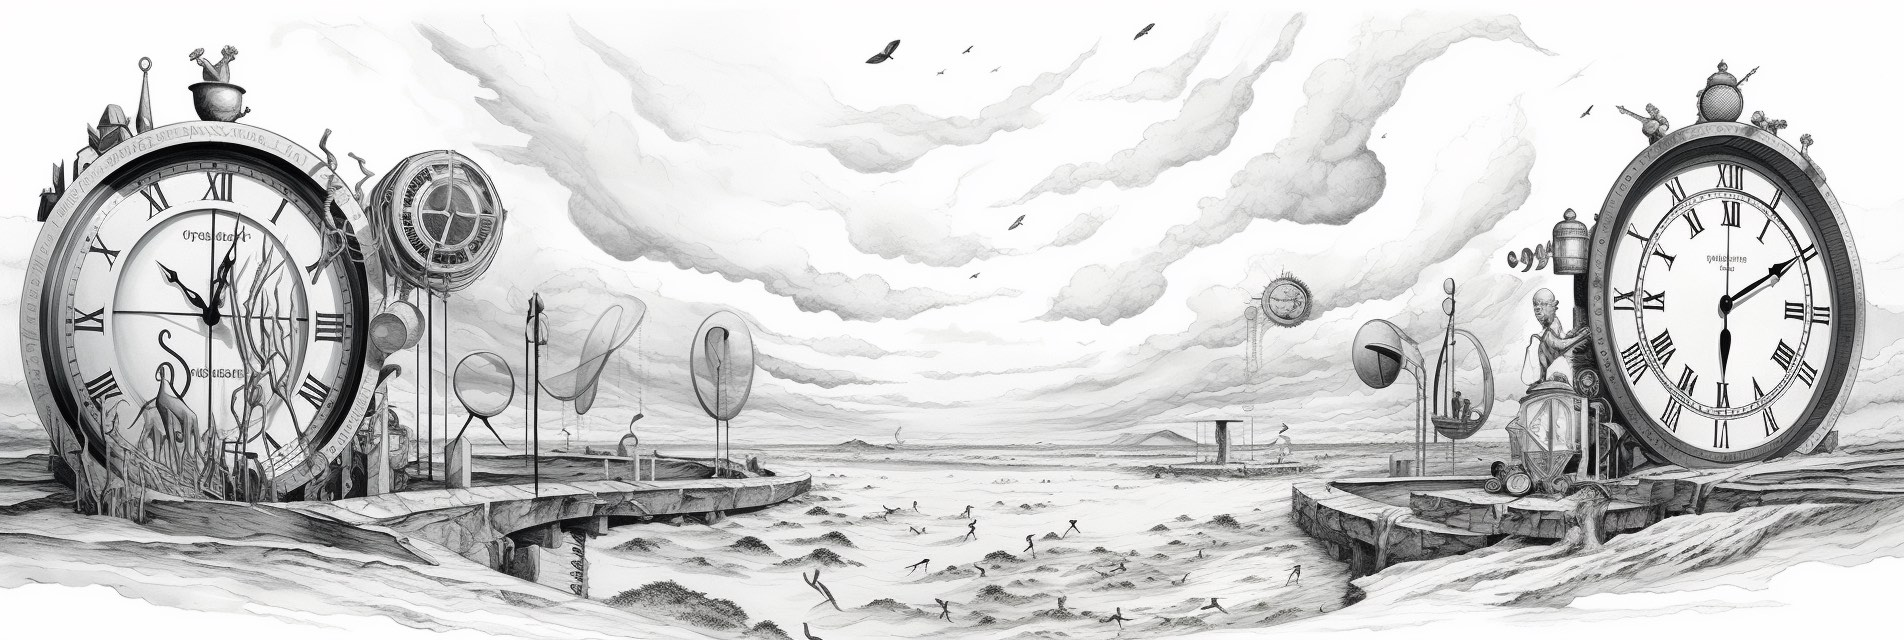
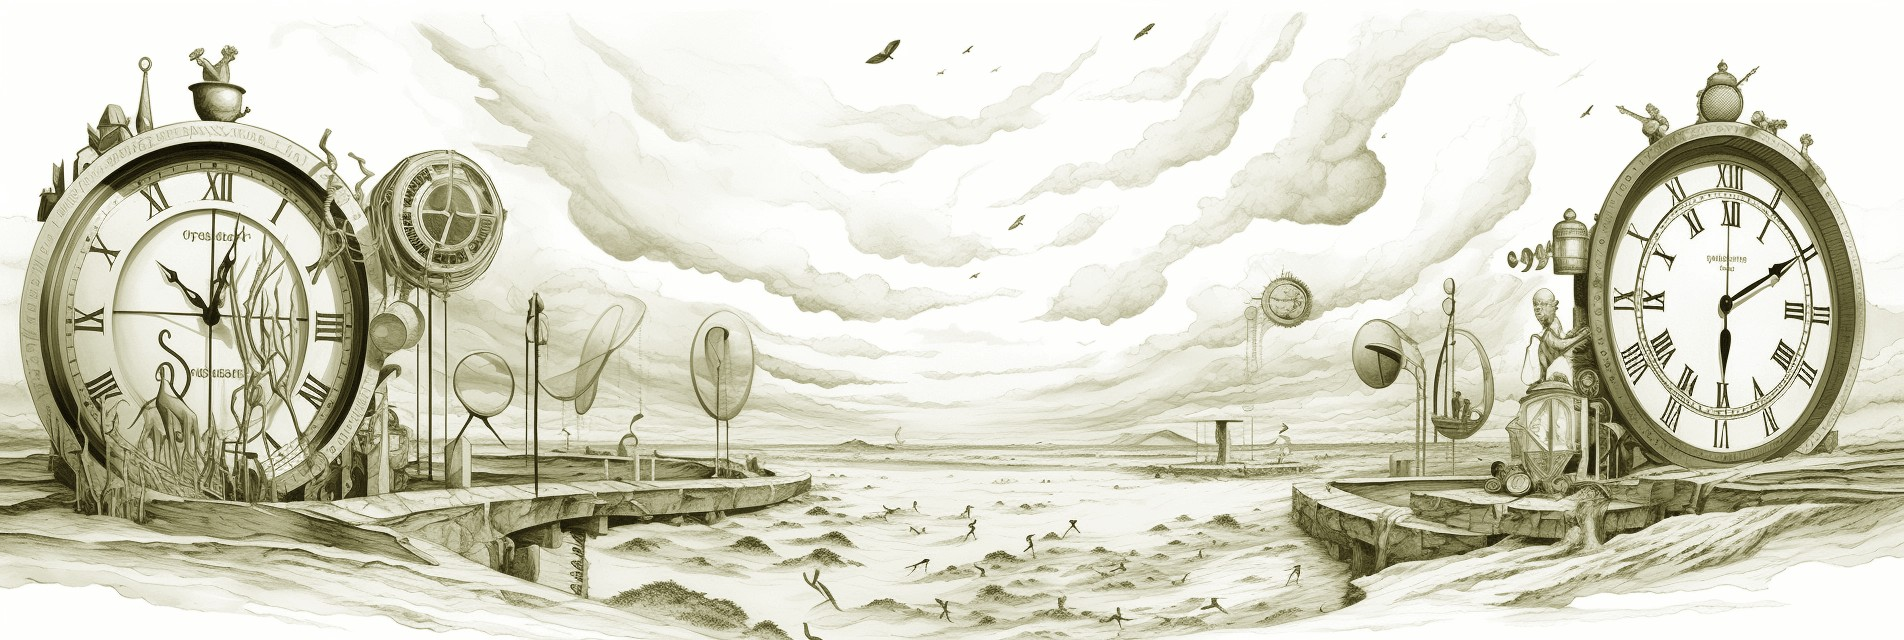
Tighten up colors, hero

diff --git a/style.css b/style.css
@@ -7,14 +7,14 @@
 }
 body {
   font: normal 16pt/21pt Gabarito, sans-serif;
-  background: url('hero.jpg') #110E11;
+  background: url('hero.jpg') #1F1D12;
   background-size: 100vw;
   background-repeat: no-repeat;
   background-attachment: fixed;
 }
 
 article {
-  color: #242521;
+  color: #1F1D12;
 }
 
 h1, div.content {
@@ -59,18 +59,18 @@ section:first-of-type h2 {
   margin-top: 0;
 }
 section:nth-child(even) {
-  background: #F8F7F3;
-  color: #242521;
+  background: #F5F6F1;
+  color: #1F1D12;
 }
 section:nth-child(even) a {
-  color: #242521;
+  color: #1F1D12;
 }
 section:nth-child(odd) {
-  background: #242521;
-  color: #F8F7F3;
+  background: #1F1D12;
+  color: #F5F6F1;
 }
 section:nth-child(odd) a {
-  color: #F8F7F3;
+  color: #F5F6F1;
 }
 
 table {
@@ -119,7 +119,7 @@ li img {
   margin-bottom: 40px;
 }
 .book a {
-  color: #F8F7F3;
+  color: #F5F6F1;
   text-decoration: none;
   display: block;
   font-size: 14pt;
@@ -127,7 +127,7 @@ li img {
 
 .footer ul {
   width: 25%;
-  columns: 2;
+  columns: 1; /* should match number of icons */
   margin: 0 auto;
 }
 .footer li img {
@@ -187,15 +187,19 @@ li img {
   }
 }
 
+@media (max-width: 874px) {
+  /* image is 1904 x 640, so at 294 height the width is 874 */
+  body {
+    background-size: auto 294px;
+    background-repeat: no-repeat;
+    background-attachment: fixed;
+    background-position: 30% top;
+  }
+}
+
 @media (max-width: 945px) {
   h1 {
     font-size: 94px;
     line-height: 94px;
-  }
-  body {
-    background-size: 175vw;
-    background-repeat: no-repeat;
-    background-attachment: fixed;
-    background-position: top center;
   }
 }

diff --git a/index.html b/index.html
@@ -21,7 +21,7 @@
       <section class="intro">
         <div class="content">
           <h2>What?</h2>
-          <p>The Functional Source License (FSL) is a source-available license that converts to Apache 2.0 or MIT after one year. It is designed for cloud services companies that want to make their core products <b>as Open Source as possible</b> without jeopardizing their business. FSL is more open than open core and copyleft, and provides everything other developers need to use and learn from your software.</p>
+          <p>The Functional Source License (FSL) is a source-available license that converts to Apache 2.0 or MIT after one year. It is designed for cloud services companies that want to make their core products <b>as Open Source as possible</b> without jeopardizing their business. More open than open core and less restrictive than copyleft, FSL provides everything a developer needs to use and learn from your software.</p>
         </div>
       </section>
 
@@ -74,7 +74,7 @@
             <dd>Grrrrrr.</dd>
 
             <dt>Open Source?</dt>
-            <dd>Sure, after one year. You're welcome.</dd>
+            <dd>Yes, after one year. You're welcome.</dd>
 
             <dt>What's with the name?</dt>
             <dd>Meh, it's functional. ¯\_(ツ)_/¯</dd>
